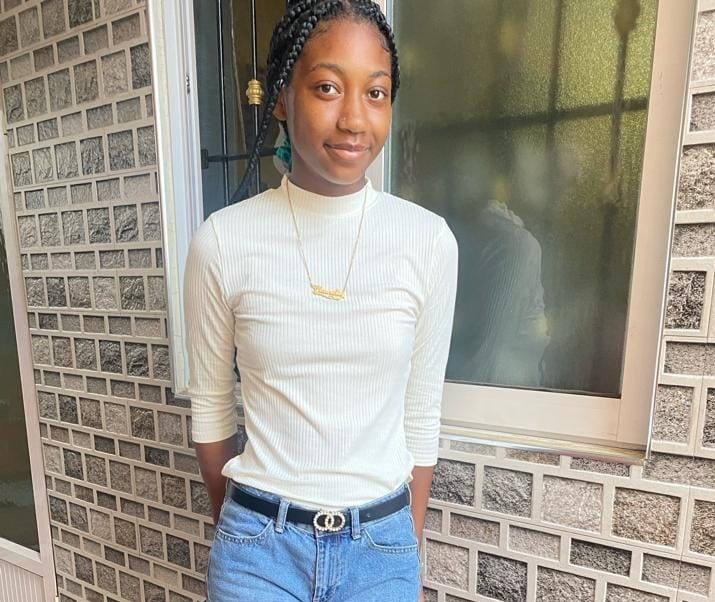
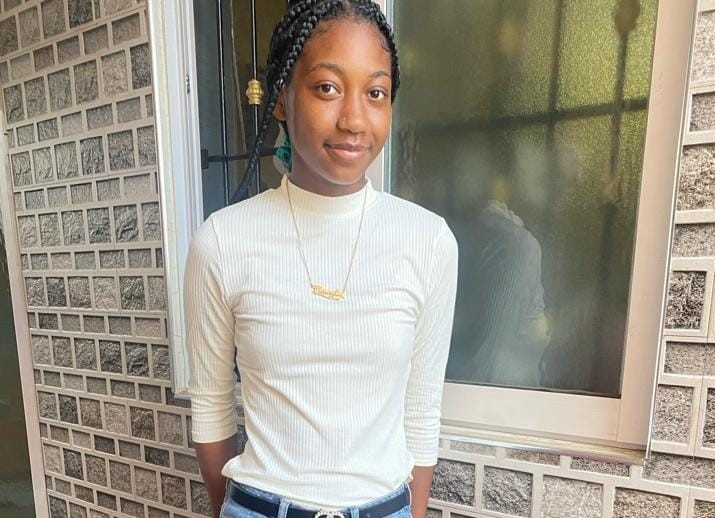
Add files via upload

diff --git a/Contact.html b/Contact.html
@@ -94,7 +94,7 @@
                 <div class="col-md-6 col-lg-3 text-center team mb-4">
                     <div class="team-item rounded overflow-hidden mb-2">
                         <div class="team-img position-relative">
-                            <img class="img-fluid" src="assets/imgs/" alt="">
+                            <img class="img-fluid" src="assets/imgs/team-4.jpg" alt="">
                             <div class="team-social">
                                 <a class="btn btn-outline-light btn-square mx-1" href="https://x.com/THEDIABOTO1?t=No8KVT74REVh5P6zb6IUEA&s=09"><i class="fab fa-twitter"></i></a>
                                 <a class="btn btn-outline-light btn-square mx-1" href="https://www.facebook.com/share/MTmtF1uTE1bTQuDm/?mibextid=qi20mg"><i class="fab fa-facebook-f"></i></a>
